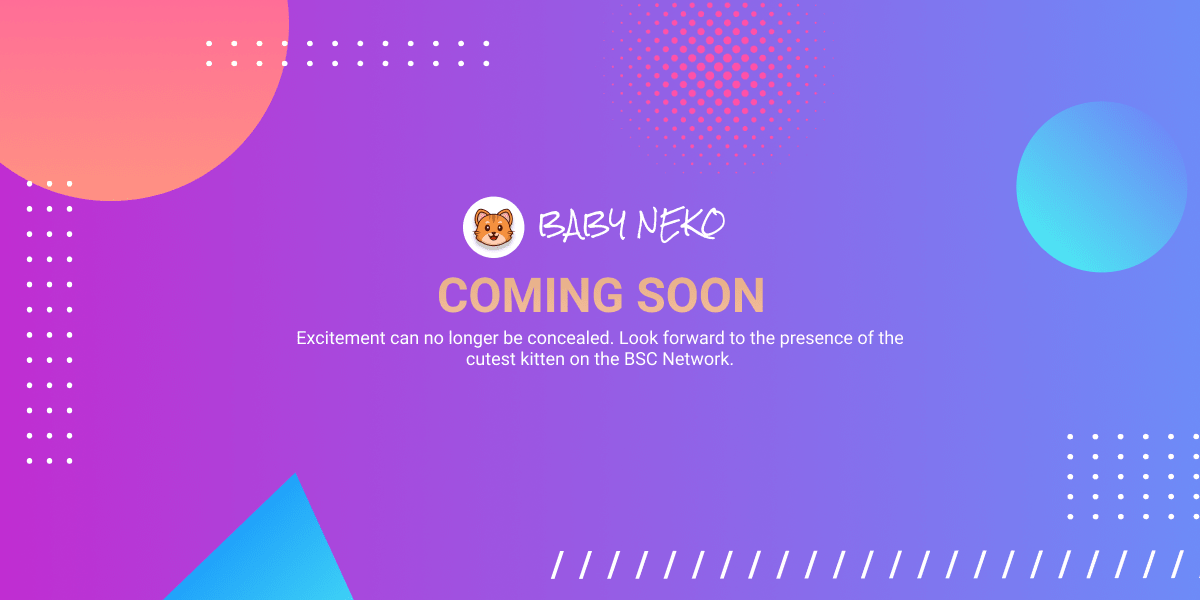
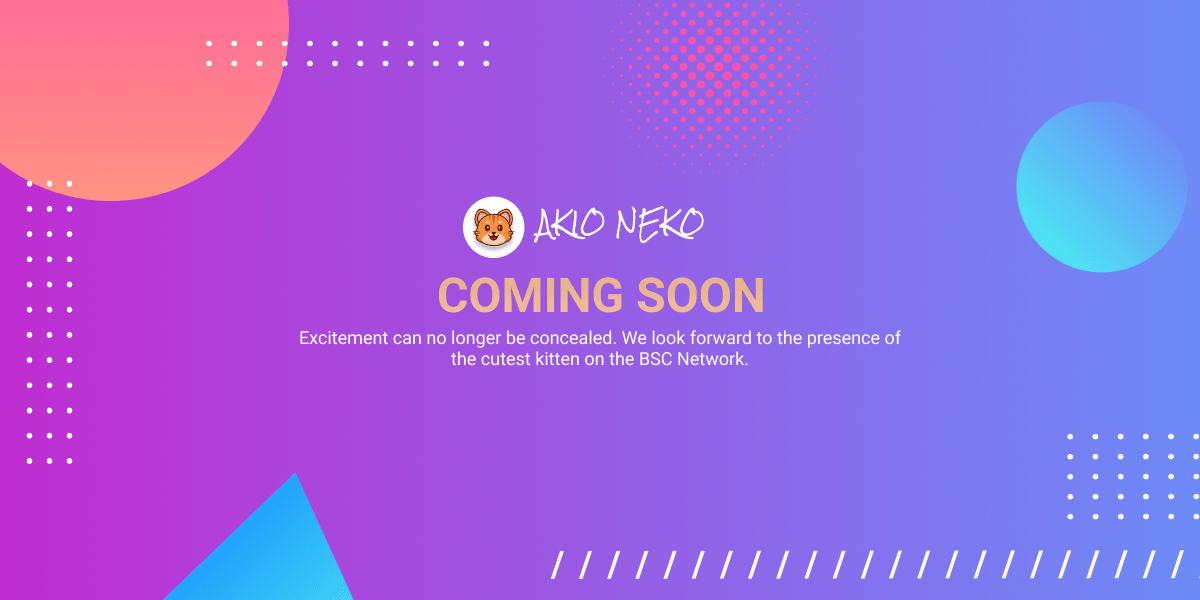
update metatag and google analytic

Changed region(s): [[0.2467, 0.54, 0.7708, 0.63], [0.4317, 0.33, 0.6167, 0.42]]

diff --git a/index.html b/index.html
@@ -5,20 +5,20 @@
     <!-- META -->
     <meta charset="utf-8">
     <meta http-equiv="X-UA-Compatible" content="IE=edge">
-    <meta name="keywords" content="baby neko, kitten, bsc token, meme token, deflationary token, Binance coin, Neko" />
-    <meta name="author" content="Baby Neko" />
+    <meta name="keywords" content="akio neko, kitten, bsc token, meme token, deflationary token, Binance coin, Neko" />
+    <meta name="author" content="Akio Neko" />
     <meta name="robots" content="" />
     <meta name="description" content="The cutest kitten on BSC Network" />
-    <meta property="og:title" content="Baby Neko - We are going to live soon">
+    <meta property="og:title" content="Akio Neko - We are going to live soon">
     <meta property="og:description" content="The cutest kitten on BSC Network">
-    <meta property="og:image" content="https://test.babyneko.xyz/images/MetaImage.png">
+    <meta property="og:image" content="https://test.akioneko.com/images/MetaImage.png">
 
     <!-- FAVICONS ICON -->
     <link rel="icon" href="images/fav/favicon.ico" type="image/x-icon" />
     <link rel="shortcut icon" type="image/x-icon" href="images/fav/favicon.ico" />
 
     <!-- PAGE TITLE HERE -->
-    <title>Baby Neko - We are going to live soon</title>
+    <title>Akio Neko - We are going to live soon</title>
 
     <!-- MOBILE SPECIFIC -->
     <meta name="viewport" content="width=device-width, initial-scale=1.0, maximum-scale=1.0">
@@ -35,7 +35,18 @@
     <link rel="stylesheet" type="text/css" class="skin" href="css/skin-7.css">
     <link rel="stylesheet" type="text/css" href="css/jquery.localizationTool.css">
     <link href="https://fonts.googleapis.com/css?family=DM+Sans:400,400i,500,500i,700,700i&display=swap" rel="stylesheet">
+    <!-- Global site tag (gtag.js) - Google Analytics -->
+    <script async src="https://www.googletagmanager.com/gtag/js?id=G-EDJEPQYT1E"></script>
+    <script>
+        window.dataLayer = window.dataLayer || [];
 
+        function gtag() {
+            dataLayer.push(arguments);
+        }
+        gtag('js', new Date());
+
+        gtag('config', 'G-EDJEPQYT1E');
+    </script>
 </head>
 
 <body id="bg" class="font-poppins">
@@ -55,7 +66,7 @@
             <div class="clearfix dez-coming-bx">
                 <div class="dez-content top-center posi-center">
                     <div class="logo wow fadeInUp" data-wow-duration="1.5s" data-wow-delay="1.0s">
-                        <a href="index.html"><img src="images/babyNekoLogo2.png" alt=""></a>
+                        <a href="index.html"><img src="images/akioneko.png" alt=""></a>
                     </div>
 
                     <h2 class="dez-title ml2 wow fadeInUp" data-wow-duration="1.5s" data-wow-delay="1.5s">Launching Soon</h2>
@@ -79,8 +90,8 @@
                         </div>
                     </div>
                     <div class="dez-coming-btn wow fadeInUp" data-wow-duration="1.5s" data-wow-delay="2.2s">
-                        <a href="https://t.me/babynekobsc" class="site-button gradient openbtn button-lg radius-md m-r10"><i class="fa fa-telegram pr-1"></i> Our Telegram</a>
-                        <a href="https://twitter.com/BabyNekoBSC" class="site-twitter gradient openbtn button-lg radius-md m-r10"><i class="fa fa-twitter pr-1"></i> Our Twitter</a>
+                        <a href="https://t.me/AkioNekoBSC" class="site-button gradient openbtn button-lg radius-md m-r10"><i class="fa fa-telegram pr-1"></i> Our Telegram</a>
+                        <a href="https://twitter.com/AkioNekoBSC" class="site-twitter gradient openbtn button-lg radius-md m-r10"><i class="fa fa-twitter pr-1"></i> Our Twitter</a>
                     </div>
                 </div>
             </div>
@@ -101,6 +112,7 @@
     <script src="js/jquery.localizationTool.js"></script>
     <script src="js/custom.min.js"></script>
     <script src="js/wow.js"></script>
+
 </body>
 
 </html>
